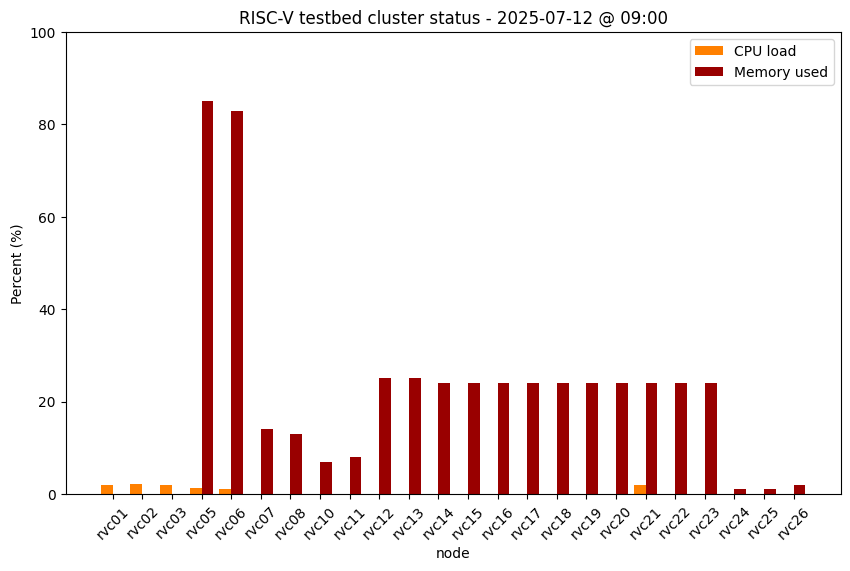
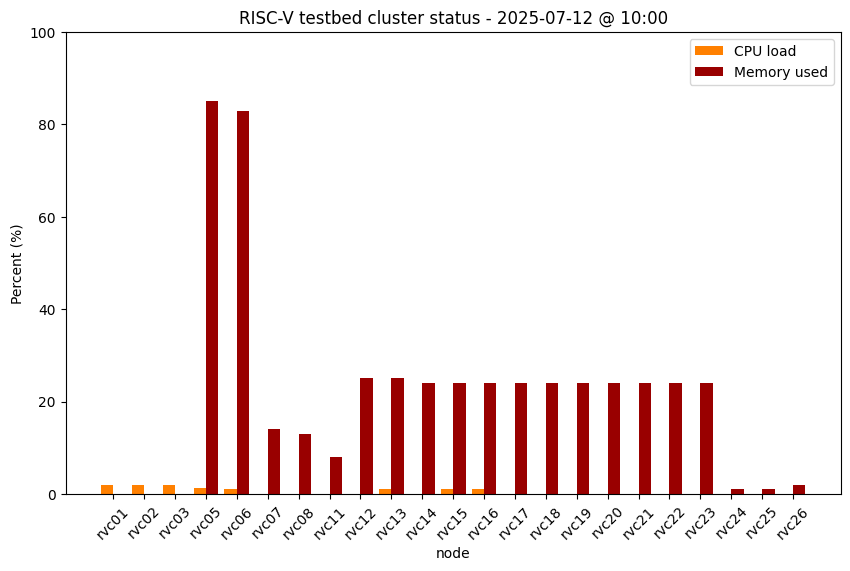
Update cluster status

Changed region(s): [[0.1529, 0.1786, 0.9482, 0.9527], [0.7341, 0.0, 0.7647, 0.0595]]

diff --git a/status.md b/status.md
@@ -22,7 +22,7 @@ permalink: /status/
 | StarFive VisionFive V1 #1 | rvc07 | 2 | 8GB | <img src="/images/on.png" alt="green light" width="10"/> up |
 | StarFive VisionFive V1 #2 | rvc08 | 2 | 8GB | <img src="/images/on.png" alt="green light" width="10"/> up |
 | StarFive VisionFive V1 #3 | rvc09 | 2 | 8GB | <img src="/images/amber.png" alt="amber light" width="10"/> offline |
-| HiFive Unmatched  | rvc10 | 4 | 16GB | <img src="/images/on.png" alt="green light" width="10"/> up |
+| HiFive Unmatched  | rvc10 | 4 | 16GB | <img src="/images/off.png" alt="red light" width="10"/> down |
 | StarFive VisionFive V2 #1 | rvc11 | 4 | 8GB | <img src="/images/on.png" alt="green light" width="10"/> up |
 | StarFive VisionFive V2 #2 | rvc12 | 4 | 8GB | <img src="/images/on.png" alt="green light" width="10"/> up |
 | StarFive VisionFive V2 #3 | rvc13 | 4 | 8GB | <img src="/images/on.png" alt="green light" width="10"/> up |
